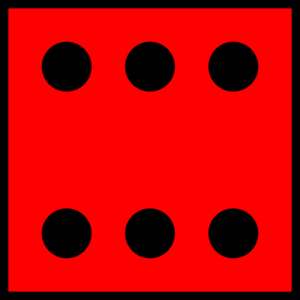
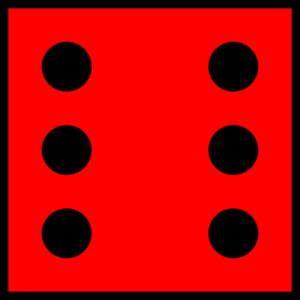
update snake and ladders

diff --git a/GameBox/GameBox/Snake and ladders.cs b/GameBox/GameBox/Snake and ladders.cs
@@ -14,7 +14,7 @@ namespace GameBox
     {
         int dice_value;
         Random ran = new Random();
-        int x, y, p1=1, p2=1,start_x,start_y;
+        int x, y, p1 = 1, p2 = 1, start_x, start_y;
 
         public Snake_and_ladders()
         {
@@ -23,133 +23,148 @@ namespace GameBox
             start_y = pb_player1.Location.Y;
             x = start_x;
             y = start_y;
-          
+
         }
 
         private void bt_roll_Click(object sender, EventArgs e)
         {
-            dice_value = ran.Next(1, 6);
-            move(ref x,ref y, ref p1, pb_player1);
-            pb_player1.Visible = true;
+            dice_value = ran.Next(1, 7);
+            pb_dice.Image = Image.FromFile(@"C:\Users\Ori\Desktop\game project\Poject_Yesodot_Group_6\GameBox\GameBox\Resources\" + dice_value.ToString() + ".png");
+            pb_dice.SizeMode = PictureBoxSizeMode.StretchImage;
+
+            move(ref x, ref y, ref p1, pb_player1, dice_value);
+            snakes_ladders(ref x, ref y, ref p1, pb_player1);
 
         }
 
-        
+       
 
-
-
-
-
-
-
-
-        private void move(ref int x ,ref int y ,ref int pos , PictureBox pb)
+        private void move(ref int x, ref int y, ref int pos, PictureBox pb, int dice)
         {
-            if (pos == 10 || pos == 20 || pos == 30 || pos == 40 || pos == 50 || pos == 60 || pos == 70 || pos == 80 || pos == 90)
+            if (pos + dice > 100)
             {
-                pos++;
-                x =start_x;
-                y -= 64;
+                pos = 100;
+                x = 742;
+                y = 16;
+                pb.Location = new Point(x, y);
+                MessageBox.Show("win");
+
             }
-            //-----------------------------------snakes------------------------------------------------
-            //else if (pos == 25)
-            //{
-            //    pos = 5;
-            //    x = 30;
-            //    y = 735;
-
-            //}
-
-            //else if (pos == 34)
-            //{
-            //    pos = 1;
-            //    x = 30;
-            //    y = 735;
-
-            //}
-
-            //else if (pos == 47)
-            //{
-            //    pos = 19;
-            //    x = 672;
-            //    y = 655;
-            //}
-
-            //else if (pos == 65)
-            //{
-            //    pos = 52;
-            //    x = 147;
-            //    y = 335;
-            //}
-
-            //else if (pos == 91)
-            //{
-            //    pos = 61;
-            //    x = 30;
-            //    y = 255;
-            //}
-
-            //else if (pos == 87)
-            //{
-            //    pos = 57;
-            //    x = 672;
-            //    y = 335;
-            //}
-
-            //else if (pos == 99)
-            //{
-            //    pos = 69;
-            //    x = 886;
-            //    y = 255;
-            //}
-            ////---------------------laddars--------------------------------
-            //else if (pos == 3)
-            //{
-            //    pos = 51;
-            //    x = 30;
-            //    y = 335;
-            //}
-            //else if (pos == 6)
-            //{
-            //    pos = 27;
-            //    x = 672;
-            //    y = 575;
-            //}
-            //else if (pos == 20)
-            //{
-            //    pos = 70;
-            //    x = 993;
-            //    y = 255;
-            //}
-            //else if (pos == 36)
-            //{
-            //    pos = 55;
-            //    x = 458;
-            //    y = 335;
-            //}
-            //else if (pos == 63)
-            //{
-            //    pos = 95;
-            //    x = 458;
-            //    y = 15;
-            //}
-            //else if (pos == 68)
-            //{
-            //    pos = 98;
-            //    x = 779;
-            //    y = 15;
-            //}
-
             else
             {
-                x += 80;
-                pos++;
+                for (int i = 0; i < dice; i++)
+                {
+
+                    if (pos == 10 || pos == 20 || pos == 30 || pos == 40 || pos == 50 || pos == 60 || pos == 70 || pos == 80 || pos == 90)
+                    {
+                        pos++;
+                        x = start_x;
+                        y -= 64;
+                    }
+                    else
+                    {
+                        x += 80;
+                        pos++;
+                    }
+
+
+                    pb.Location = new Point(x, y);
+                }
+
+            }
+
+        }
+
+        private void snakes_ladders(ref int x,ref int y,ref int pos, PictureBox pb)
+        {
+            //--------------------------snakes-------------------------------
+              if (pos == 25)
+            {
+                pos = 5;
+                x = 342;
+                y = start_y;
+
+            }
+
+            else if (pos == 34)
+            {
+                pos = 1;
+                x = start_x;
+                y = start_y;
+
+            }
+
+            else if (pos == 47)
+            {
+                pos = 19;
+                x = 662;
+                y = 533;
+            }
+
+            else if (pos == 65)
+            {
+                pos = 52;
+                x = 102;
+                y = 277;
+            }
+
+            else if (pos == 91)
+            {
+                pos = 61;
+                x = start_x;
+                y = 213;
+            }
+
+            else if (pos == 87)
+            {
+                pos = 57;
+                y = 277;
+            }
+
+            else if (pos == 99)
+            {
+                pos = 69;
+                y = 213;
+            }
+            //---------------------laddars--------------------------------
+            else if (pos == 3)
+            {
+                pos = 51;
+                x = start_x;
+                y = 277;
+            }
+            else if (pos == 6)
+            {
+                pos = 27;
+                x = 502;
+                y = 464;
+            }
+            else if (pos == 20)
+            {
+                pos = 70;
+                y = 208;
+            }
+            else if (pos == 36)
+            {
+                pos = 55;
+                x = 342;
+                y = 277;
+            }
+            else if (pos == 63)
+            {
+                pos = 95;
+                x = 342;
+                y = 16;
+            }
+            else if (pos == 68)
+            {
+                pos = 98;
+                y = 16;
             }
 
             pb.Location = new Point(x, y);
-
         }
-
+    
 
 
         private void bt_Exit_Click(object sender, EventArgs e)

diff --git a/GameBox/GameBox/Snake and ladders.Designer.cs b/GameBox/GameBox/Snake and ladders.Designer.cs
@@ -30,7 +30,6 @@
         {
             System.ComponentModel.ComponentResourceManager resources = new System.ComponentModel.ComponentResourceManager(typeof(Snake_and_ladders));
             this.pb_player2 = new System.Windows.Forms.PictureBox();
-            this.panel_dice = new System.Windows.Forms.Panel();
             this.bt_music = new System.Windows.Forms.Button();
             this.bt_Exit = new System.Windows.Forms.Button();
             this.button2 = new System.Windows.Forms.Button();
@@ -39,9 +38,11 @@
             this.lb_player2_name = new System.Windows.Forms.Label();
             this.pb_player1 = new System.Windows.Forms.PictureBox();
             this.panel1 = new System.Windows.Forms.Panel();
+            this.pb_dice = new System.Windows.Forms.PictureBox();
             ((System.ComponentModel.ISupportInitialize)(this.pb_player2)).BeginInit();
             ((System.ComponentModel.ISupportInitialize)(this.pb_player1)).BeginInit();
             this.panel1.SuspendLayout();
+            ((System.ComponentModel.ISupportInitialize)(this.pb_dice)).BeginInit();
             this.SuspendLayout();
             // 
             // pb_player2
@@ -54,16 +55,6 @@
             this.pb_player2.Size = new System.Drawing.Size(53, 45);
             this.pb_player2.TabIndex = 6;
             this.pb_player2.TabStop = false;
-            // 
-            // panel_dice
-            // 
-            this.panel_dice.BackColor = System.Drawing.Color.Transparent;
-            this.panel_dice.BackgroundImage = global::GameBox.Properties.Resources.roll_the_dice;
-            this.panel_dice.BackgroundImageLayout = System.Windows.Forms.ImageLayout.Stretch;
-            this.panel_dice.Location = new System.Drawing.Point(1117, 303);
-            this.panel_dice.Name = "panel_dice";
-            this.panel_dice.Size = new System.Drawing.Size(181, 148);
-            this.panel_dice.TabIndex = 1;
             // 
             // bt_music
             // 
@@ -151,12 +142,24 @@
             this.panel1.Size = new System.Drawing.Size(1077, 799);
             this.panel1.TabIndex = 10;
             // 
+            // pb_dice
+            // 
+            this.pb_dice.BackColor = System.Drawing.Color.Transparent;
+            this.pb_dice.BackgroundImageLayout = System.Windows.Forms.ImageLayout.Stretch;
+            this.pb_dice.Location = new System.Drawing.Point(1108, 309);
+            this.pb_dice.Name = "pb_dice";
+            this.pb_dice.Size = new System.Drawing.Size(187, 133);
+            this.pb_dice.TabIndex = 11;
+            this.pb_dice.TabStop = false;
+            // 
             // Snake_and_ladders
             // 
             this.AutoScaleDimensions = new System.Drawing.SizeF(8F, 16F);
             this.AutoScaleMode = System.Windows.Forms.AutoScaleMode.Font;
+            this.BackColor = System.Drawing.Color.CornflowerBlue;
             this.ClientSize = new System.Drawing.Size(1333, 800);
             this.ControlBox = false;
+            this.Controls.Add(this.pb_dice);
             this.Controls.Add(this.panel1);
             this.Controls.Add(this.lb_player2_name);
             this.Controls.Add(this.pb_player2);
@@ -165,7 +168,6 @@
             this.Controls.Add(this.button2);
             this.Controls.Add(this.bt_Exit);
             this.Controls.Add(this.bt_music);
-            this.Controls.Add(this.panel_dice);
             this.MaximumSize = new System.Drawing.Size(1351, 847);
             this.MinimumSize = new System.Drawing.Size(1351, 847);
             this.Name = "Snake_and_ladders";
@@ -174,13 +176,13 @@
             ((System.ComponentModel.ISupportInitialize)(this.pb_player2)).EndInit();
             ((System.ComponentModel.ISupportInitialize)(this.pb_player1)).EndInit();
             this.panel1.ResumeLayout(false);
+            ((System.ComponentModel.ISupportInitialize)(this.pb_dice)).EndInit();
             this.ResumeLayout(false);
             this.PerformLayout();
 
         }
 
         #endregion
-        private System.Windows.Forms.Panel panel_dice;
         private System.Windows.Forms.Button bt_music;
         private System.Windows.Forms.Button bt_Exit;
         private System.Windows.Forms.Button button2;
@@ -190,5 +192,6 @@
         private System.Windows.Forms.Label lb_player2_name;
         private System.Windows.Forms.PictureBox pb_player1;
         private System.Windows.Forms.Panel panel1;
+        private System.Windows.Forms.PictureBox pb_dice;
     }
 }

diff --git a/GameBox/GameBox/Properties/Resources.Designer.cs b/GameBox/GameBox/Properties/Resources.Designer.cs
@@ -193,16 +193,6 @@ namespace GameBox.Properties {
         /// <summary>
         ///   Looks up a localized resource of type System.Drawing.Bitmap.
         /// </summary>
-        internal static System.Drawing.Bitmap roll_the_dice {
-            get {
-                object obj = ResourceManager.GetObject("roll_the_dice", resourceCulture);
-                return ((System.Drawing.Bitmap)(obj));
-            }
-        }
-        
-        /// <summary>
-        ///   Looks up a localized resource of type System.Drawing.Bitmap.
-        /// </summary>
         internal static System.Drawing.Bitmap snakeandladders {
             get {
                 object obj = ResourceManager.GetObject("snakeandladders", resourceCulture);
